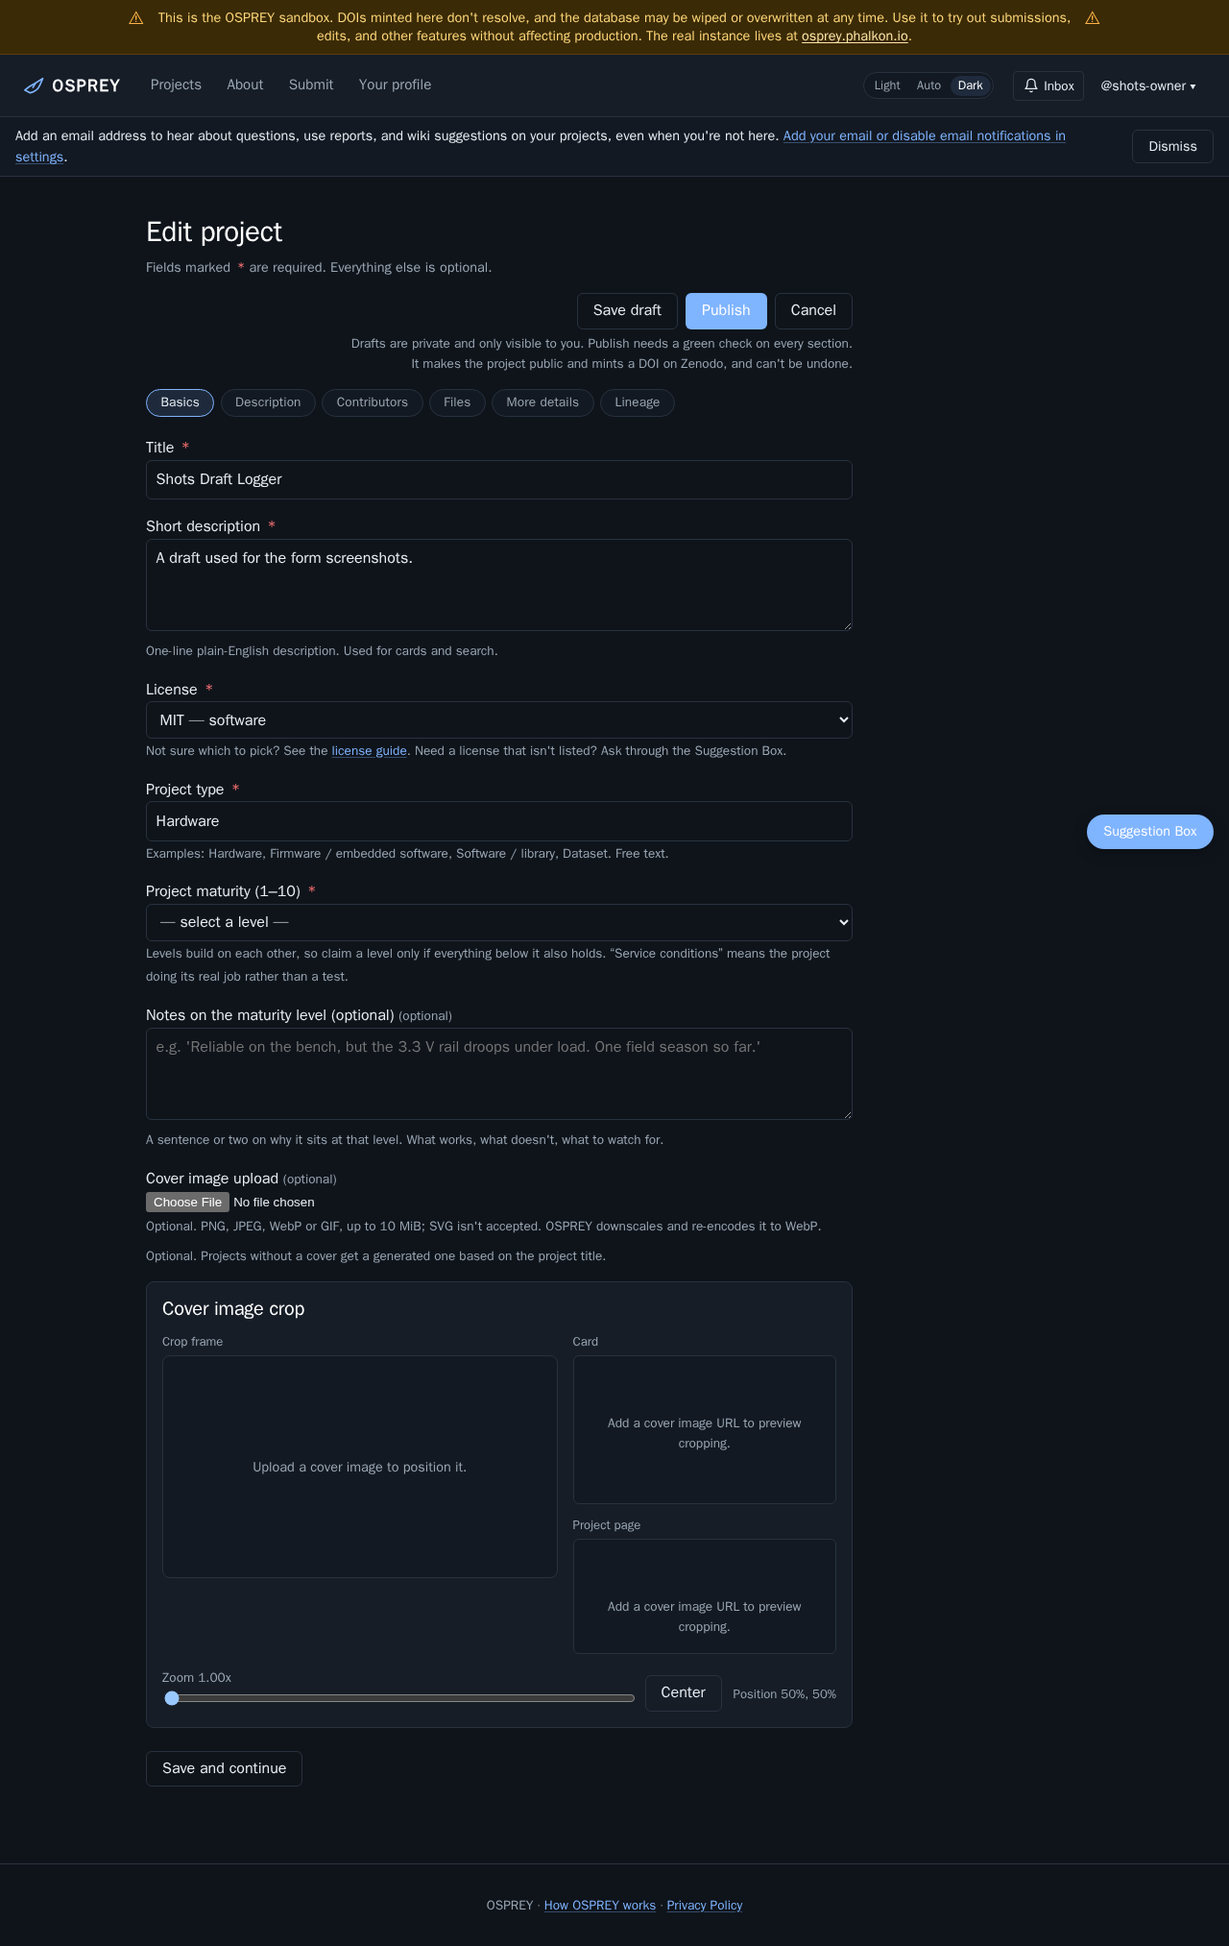
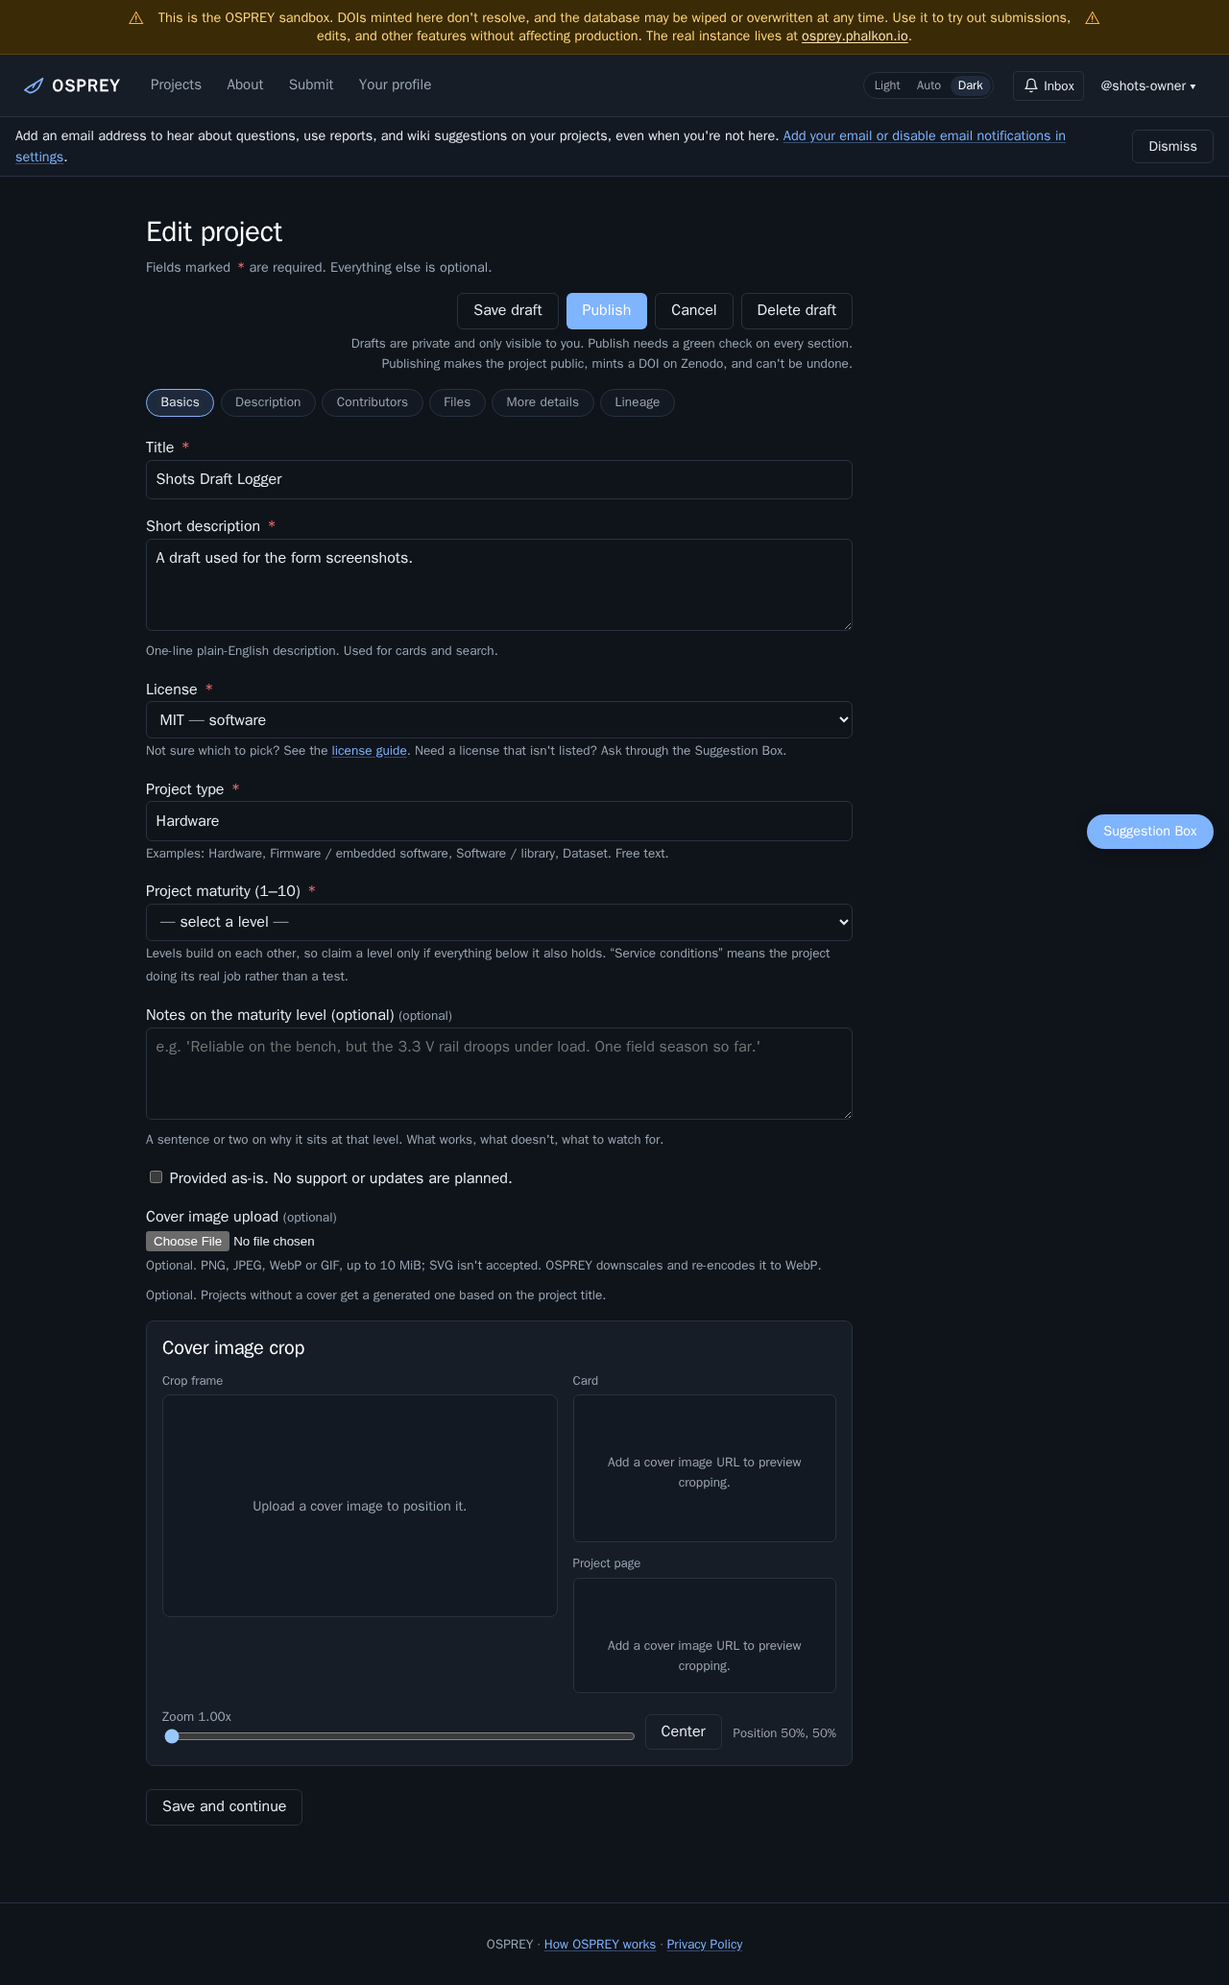
Provide "as-is" option for projects

diff --git a/projects/templates/projects/form.html b/projects/templates/projects/form.html
@@ -104,6 +104,9 @@
         {% include "projects/_form_field.html" with field=form.artifact_type require=True %}
         {% include "projects/_form_field.html" with field=form.self_rating require=True %}
         {% include "projects/_form_field.html" with field=form.self_rating_note %}
+        <p>
+            <label><input type="checkbox" name="{{ form.provided_as_is.html_name }}" value="on"{% if form.provided_as_is.value %} checked{% endif %}> {{ form.provided_as_is.label }}</label>
+        </p>
 
     {% include "projects/_form_field.html" with field=form.cover_image %}
     <p class="muted" style="font-size:.85rem;margin:-.5rem 0 .75rem">
@@ -427,7 +430,11 @@
         {% include "projects/_form_field.html" with field=form.funding %}
         {% include "projects/_form_field.html" with field=form.publications %}
         {% include "projects/_form_field.html" with field=form.tags_input %}
+        {% if project.provided_as_is %}
+        <p class="muted small">Wiki edits apply directly on a project provided as-is.</p>
+        {% else %}
         {% include "projects/_form_field.html" with field=form.wiki_requires_approval %}
+        {% endif %}
         <p><button type="button" class="ghost" data-mark-done>Save and continue</button></p>
     </section>
 

diff --git a/projects/templates/projects/detail.html b/projects/templates/projects/detail.html
@@ -24,6 +24,22 @@
     </div>
     {% endif %}
 
+    {% if project.provided_as_is %}
+    <section class="as-is-box">
+        <p>
+            <span class="badge as-is">Provided as-is</span>
+            No support or updates are planned.
+            {% if is_owner %}
+            <form method="post" action="{% url 'projects:mute_toggle' project.slug %}" style="display:inline;margin-left:.5rem">
+                {% csrf_token %}
+                <button type="submit" class="ghost small">{% if project.owner_activity_muted %}Unmute activity{% else %}Mute activity{% endif %}</button>
+            </form>
+            {% if project.owner_activity_muted %}<span class="muted small">Activity here doesn't notify you.</span>{% endif %}
+            {% endif %}
+        </p>
+    </section>
+    {% endif %}
+
     {% if project.readme %}
     <section>
         <div class="prose">{{ project.readme|markdown }}</div>

diff --git a/projects/templates/projects/list.html b/projects/templates/projects/list.html
@@ -30,6 +30,14 @@
                 {% for opt in project_type_options %}<option value="{{ opt }}">{{ opt }}</option>{% endfor %}
             </select>
         </div>
+        <div class="search-field">
+            <label for="support-filter">Support</label>
+            <select name="support" id="support-filter">
+                <option value="">Any</option>
+                <option value="maintained">Maintained</option>
+                <option value="as_is">Provided as-is</option>
+            </select>
+        </div>
     </div>
 </form>
 
@@ -52,6 +60,7 @@
         }
         setSel('field-filter', params.get('field'));
         setSel('type-filter', params.get('project_type'));
+        setSel('support-filter', params.get('support'));
     })();
 </script>
 

diff --git a/projects/templates/projects/_project_card.html b/projects/templates/projects/_project_card.html
@@ -40,9 +40,10 @@ Tags stay off cards; they live on the project page.
         {% if project.artifact_type %}<span>· {{ project.artifact_type }}</span>{% endif %}
         {% for inst in project.institutions %}<span>· {{ inst }}</span>{% endfor %}
     </div>
-    {% if project.license %}
+    {% if project.license or project.provided_as_is %}
     <div class="card-badges">
-        <span class="badge license" style="margin-left:auto">{{ project.license }}</span>
+        {% if project.provided_as_is %}<span class="badge as-is">as-is</span>{% endif %}
+        {% if project.license %}<span class="badge license" style="margin-left:auto">{{ project.license }}</span>{% endif %}
     </div>
     {% endif %}
 </a>

diff --git a/core/static/css/osprey.css b/core/static/css/osprey.css
@@ -744,6 +744,25 @@ button.ghost:hover {
     border-color: var(--badge-private-border);
 }
 
+.badge.as-is {
+    background: var(--bg-soft);
+    color: var(--fg-muted);
+    border-color: var(--border);
+}
+
+.as-is-box {
+    background: var(--bg-soft);
+    border: 1px solid var(--border);
+    border-radius: 8px;
+    padding: .6rem .9rem;
+    margin: 0 0 1rem;
+    color: var(--fg-muted);
+}
+
+.as-is-box p {
+    margin: 0;
+}
+
 .badge.license {
     background: var(--badge-license-bg);
     color: var(--badge-license-fg);

diff --git a/conversations/templates/conversations/new.html b/conversations/templates/conversations/new.html
@@ -6,6 +6,7 @@
     <p class="muted small"><a href="{% url 'conversations:index' project.slug %}">&larr; Discussion</a></p>
     <h1>Start a thread on {{ project.title }}</h1>
     <p class="muted">Ask a specific question about the project. Markdown is supported in the body.</p>
+    {% if project.provided_as_is %}<p class="muted">This project is provided as-is. Answers come from the community, if at all.</p>{% endif %}
     <form method="post" class="stack-form">
         {% csrf_token %}
         <p>

diff --git a/conversations/templates/conversations/index.html b/conversations/templates/conversations/index.html
@@ -14,7 +14,7 @@
         {% endif %}
     </header>
     <p class="muted">
-        Questions about this project.
+        Questions about this project.{% if project.provided_as_is %} This project is provided as-is. Answers come from the community, if at all.{% endif %}
     </p>
     {% for t in threads %}
     <article class="thread-row">

diff --git a/projects/tests_as_is.py b/projects/tests_as_is.py
@@ -1,0 +1,123 @@
+"""Provided as-is: a badge, a sentence, a filter, and the owner's mute."""
+from __future__ import annotations
+
+from django.test import TestCase
+from django.urls import reverse
+
+from notifications.models import Notification
+from projects.models import Project
+from projects.tests import ProjectTestCase
+from projects.zenodo import _osprey_metadata_payload, metadata_for_project
+
+
+class AsIsTests(ProjectTestCase):
+    def _mark(self):
+        Project.objects.filter(pk=self.public_project.pk).update(provided_as_is=True)
+        self.public_project.refresh_from_db()
+
+    def test_form_checkbox_sets_and_clears_the_mark(self):
+        self.client.force_login(self.owner)
+        data = self.project_form_post_data(action="save")
+        data["title"] = self.public_project.title
+        data["provided_as_is"] = "on"
+        self.client.post(reverse("projects:edit", args=[self.public_project.slug]), data)
+        self.public_project.refresh_from_db()
+        self.assertTrue(self.public_project.provided_as_is)
+        data.pop("provided_as_is")
+        self.client.post(reverse("projects:edit", args=[self.public_project.slug]), data)
+        self.public_project.refresh_from_db()
+        self.assertFalse(self.public_project.provided_as_is)
+        page = self.client.get(reverse("projects:edit", args=[self.public_project.slug]))
+        self.assertContains(page, "Provided as-is. No support or updates are planned.")
+
+    def test_as_is_forces_an_open_wiki(self):
+        Project.objects.filter(pk=self.public_project.pk).update(wiki_requires_approval=True)
+        self.client.force_login(self.owner)
+        data = self.project_form_post_data(action="save")
+        data["title"] = self.public_project.title
+        data["provided_as_is"] = "on"
+        data["wiki_requires_approval"] = "on"
+        self.client.post(reverse("projects:edit", args=[self.public_project.slug]), data)
+        self.public_project.refresh_from_db()
+        self.assertTrue(self.public_project.provided_as_is)
+        self.assertFalse(self.public_project.wiki_requires_approval)
+        # Posting review-on again while as-is changes nothing, and the form hides the option.
+        self.client.post(reverse("projects:edit", args=[self.public_project.slug]), data)
+        self.public_project.refresh_from_db()
+        self.assertFalse(self.public_project.wiki_requires_approval)
+        page = self.client.get(reverse("projects:edit", args=[self.public_project.slug]))
+        self.assertContains(page, "Wiki edits apply directly on a project provided as-is.")
+        # Any save path, not just the form.
+        self.public_project.wiki_requires_approval = True
+        self.public_project.save()
+        self.public_project.refresh_from_db()
+        self.assertFalse(self.public_project.wiki_requires_approval)
+        # Un-marking gives the choice back.
+        data.pop("provided_as_is")
+        self.client.post(reverse("projects:edit", args=[self.public_project.slug]), data)
+        self.public_project.refresh_from_db()
+        self.assertTrue(self.public_project.wiki_requires_approval)
+
+    def test_as_is_box_sits_above_the_readme(self):
+        self._mark()
+        body = self.client.get(self.public_project.get_absolute_url()).content.decode()
+        self.assertLess(body.index("Provided as-is"), body.index("Bench notes"))
+        self.assertIn('class="as-is-box"', body)
+
+    def test_badge_sentence_card_and_ask_box(self):
+        self._mark()
+        page = self.client.get(self.public_project.get_absolute_url())
+        self.assertContains(page, "Provided as-is")
+        self.assertContains(page, "No support or updates are planned.")
+        self.assertNotContains(page, "Mute activity")  # visitors get no mute button
+        self.assertContains(self.client.get(reverse("projects:list")), 'class="badge as-is">as-is<')
+        self.client.force_login(self.contributor)
+        self.assertContains(self.client.get(reverse("conversations:new", args=[self.public_project.slug])), "Answers come from the community, if at all.")
+        self.assertContains(self.client.get(reverse("conversations:index", args=[self.public_project.slug])), "Answers come from the community, if at all.")
+        unmarked = self.client.get(reverse("conversations:index", args=[self.private_project.slug]))
+        self.assertNotContains(unmarked, "Answers come from the community")
+
+    def test_support_filter(self):
+        self._mark()
+        Project.objects.filter(pk=self.private_project.pk).update(visibility=Project.VISIBILITY_PUBLIC)
+        self.assertContains(self.client.get(reverse("projects:list") + "?support=as_is"), "Public Pump")
+        self.assertNotContains(self.client.get(reverse("projects:list") + "?support=as_is"), "Private Pump")
+        self.assertNotContains(self.client.get(reverse("projects:list") + "?support=maintained"), "Public Pump")
+        self.assertContains(self.client.get(reverse("projects:list") + "?support=maintained"), "Private Pump")
+        both = self.client.get(reverse("projects:list"))
+        self.assertContains(both, "Public Pump")
+        self.assertContains(both, "Private Pump")
+
+    def test_zenodo_metadata_and_sidecar_carry_the_mark(self):
+        self._mark()
+        metadata = metadata_for_project(self.public_project, None)
+        self.assertIn("Provided as-is: no support or updates are planned.", metadata["notes"])
+        self.assertTrue(_osprey_metadata_payload(self.public_project)["provided_as_is"])
+        Project.objects.filter(pk=self.public_project.pk).update(provided_as_is=False)
+        self.public_project.refresh_from_db()
+        self.assertNotIn("notes", metadata_for_project(self.public_project, None))
+
+    def test_owner_mute_stops_activity_notifications(self):
+        from conversations.models import ProjectThread
+        from notifications import events
+
+        self._mark()
+        self.client.force_login(self.owner)
+        page = self.client.get(self.public_project.get_absolute_url())
+        self.assertContains(page, "Mute activity")
+        thread = ProjectThread.objects.create(project=self.public_project, author=self.contributor, title="Does it float?", body="Asking.")
+        events.thread_created(thread)
+        self.assertEqual(Notification.objects.filter(user=self.owner, kind="project_question").count(), 1)
+        response = self.client.post(reverse("projects:mute_toggle", args=[self.public_project.slug]))
+        self.assertEqual(response.status_code, 302)
+        self.public_project.refresh_from_db()
+        self.assertTrue(self.public_project.owner_activity_muted)
+        thread2 = ProjectThread.objects.create(project=self.public_project, author=self.contributor, title="Still floating?", body="Asking again.")
+        events.thread_created(thread2)
+        self.assertEqual(Notification.objects.filter(user=self.owner, kind="project_question").count(), 1)
+        page = self.client.get(self.public_project.get_absolute_url())
+        self.assertContains(page, "Unmute activity")
+        self.assertContains(page, "Activity here doesn't notify you.")
+        # Only the owner can toggle it.
+        self.client.force_login(self.contributor)
+        self.assertEqual(self.client.post(reverse("projects:mute_toggle", args=[self.public_project.slug])).status_code, 404)

diff --git a/projects/views.py b/projects/views.py
@@ -273,6 +273,11 @@ def project_list(request):
     project_type = request.GET.get("project_type", "").strip()
     institution = request.GET.get("institution", "").strip()
     tag = request.GET.get("tag", "").strip()
+    support = request.GET.get("support", "").strip()
+    if support == "as_is":
+        qs = qs.filter(provided_as_is=True)
+    elif support == "maintained":
+        qs = qs.filter(provided_as_is=False)
 
     if q:
         qs = qs.filter(
@@ -350,6 +355,7 @@ def project_detail(request, slug: str):
         {
             "project": project,
             "can_edit": project.editable_by(request.user),
+            "is_owner": project.publishable_by(request.user),
             "zenodo_configured": zenodo_configured(),
             "zenodo_mode_label": zenodo_mode_label(),
             "zenodo_deposit": deposit,
@@ -1837,6 +1843,19 @@ def project_register(request):
         "projects/register.html",
         {"error": error, "doi": doi, "verified_orcid": verified_orcid},
     )
+
+
+@login_required
+def mute_toggle(request, slug: str):
+    """Owner's one-click mute of activity notifications on their project."""
+    project = get_object_or_404(Project, slug=slug)
+    if not project.publishable_by(request.user):
+        raise Http404
+    if request.method == "POST":
+        project.owner_activity_muted = not project.owner_activity_muted
+        project.save(update_fields=["owner_activity_muted"])
+        messages.success(request, "Activity muted." if project.owner_activity_muted else "Activity unmuted.")
+    return redirect(project.get_absolute_url())
 
 
 @login_required

diff --git a/projects/models.py b/projects/models.py
@@ -124,6 +124,13 @@ class Project(models.Model):
     origin = models.CharField(
         max_length=16, choices=ORIGIN_CHOICES, default=ORIGIN_NATIVE, db_index=True
     )
+    # Provided as-is: a promise about support, not a verdict on quality
+    # (decided 2026-09-29). Per project, editable any time.
+    provided_as_is = models.BooleanField(default=False)
+    # Owner's one-click mute of project activity notifications (questions,
+    # use reports, wiki suggestions, lineage claims). Offered from the
+    # as-is badge; works for any project.
+    owner_activity_muted = models.BooleanField(default=False)
     # License audit (all kinds): OSPREY's license compared with the Zenodo
     # record and any linked GitHub repository. See projects/indexing/license_check.py.
     license_check = models.JSONField(default=dict, blank=True)
@@ -255,6 +262,16 @@ class Project(models.Model):
 
     def __str__(self) -> str:
         return self.title
+
+    def save(self, *args, **kwargs):
+        # Provided as-is means nobody reviews wiki suggestions: the wiki is
+        # always open. Enforced here so no path can leave it in review mode.
+        if self.provided_as_is and self.wiki_requires_approval:
+            self.wiki_requires_approval = False
+            fields = kwargs.get("update_fields")
+            if fields is not None and "wiki_requires_approval" not in fields:
+                kwargs["update_fields"] = list(fields) + ["wiki_requires_approval"]
+        super().save(*args, **kwargs)
 
     def get_absolute_url(self) -> str:
         return reverse("projects:detail", args=[self.slug])

diff --git a/scripts/smoke_seed.py b/scripts/smoke_seed.py
@@ -791,3 +791,35 @@ print(f"wiki_pages:      {WikiPage.objects.count()}")
 print(f"use reports:     {UseReport.objects.count()}")
 print(f"citations:       {Citation.objects.count()}")
 print(f"lineage_edges:   {LineageEdge.objects.count()}")
+
+
+# --- A finished instrument nobody maintains: provided as-is ---------------
+TIDE_README = """\
+Tide gauge logger built for a 2019 field season: a pressure sensor, a
+low-power board, and a housing that survived a winter. It worked, the
+season ended, and nobody is developing it further. The design is
+complete as of this version.
+"""
+tide_owner = Project.objects.get(slug="whoi-pump").created_by
+tide, _ = Project.objects.get_or_create(
+    slug="tide-gauge-logger-2019",
+    defaults={
+        "title": "Tide Gauge Logger (2019 season)",
+        "summary": "A pressure-based tide gauge logger from a finished field season. Provided as-is.",
+        "readme": TIDE_README,
+        "artifact_type": "hardware",
+        "field": "oceanography",
+        "license": "CERN-OHL-P-2.0",
+        "institution": WHOI,
+        "visibility": Project.VISIBILITY_PUBLIC,
+        "created_by": tide_owner,
+        "self_rating": 7,
+        "self_rating_note": "Deployed for one season; documentation complete.",
+    },
+)
+Project.objects.filter(pk=tide.pk).update(
+    visibility=Project.VISIBILITY_PUBLIC, created_by=tide_owner, provided_as_is=True, wiki_requires_approval=False
+)
+Contribution.objects.update_or_create(
+    project=tide, display_name="Field Team 2019", defaults={"user": None, "role": "Design and deployment", "order": 0}
+)

diff --git a/projects/forms.py b/projects/forms.py
@@ -162,6 +162,7 @@ class ProjectForm(forms.ModelForm):
             "funding",
             "self_rating",
             "self_rating_note",
+            "provided_as_is",
             "publications",
             "wiki_requires_approval",
         ]
@@ -278,6 +279,8 @@ class ProjectForm(forms.ModelForm):
         # The short description drives cards and search results, so the
         # form requires it even though old rows may predate the rule.
         self.fields["summary"].required = True
+        self.fields["provided_as_is"].label = "Provided as-is. No support or updates are planned."
+        self.fields["provided_as_is"].help_text = ""
         # Pre-populate the license dropdown from the saved value. A saved
         # license that is no longer on the curated list (all past options
         # were open licenses) stays valid for this project, so editing
@@ -324,6 +327,10 @@ class ProjectForm(forms.ModelForm):
     def save(self, commit: bool = True) -> Project:
         project = super().save(commit=False)
         project.license = self.cleaned_data.get("resolved_license", "") or ""
+        # An as-is project has nobody reviewing wiki suggestions, so its wiki
+        # is always open to direct edits (decided 2026-09-29).
+        if project.provided_as_is:
+            project.wiki_requires_approval = False
         if not project.slug:
             project.slug = _generate_slug(project.title)
         # Re-encode cover image (upload or URL) before persisting.
